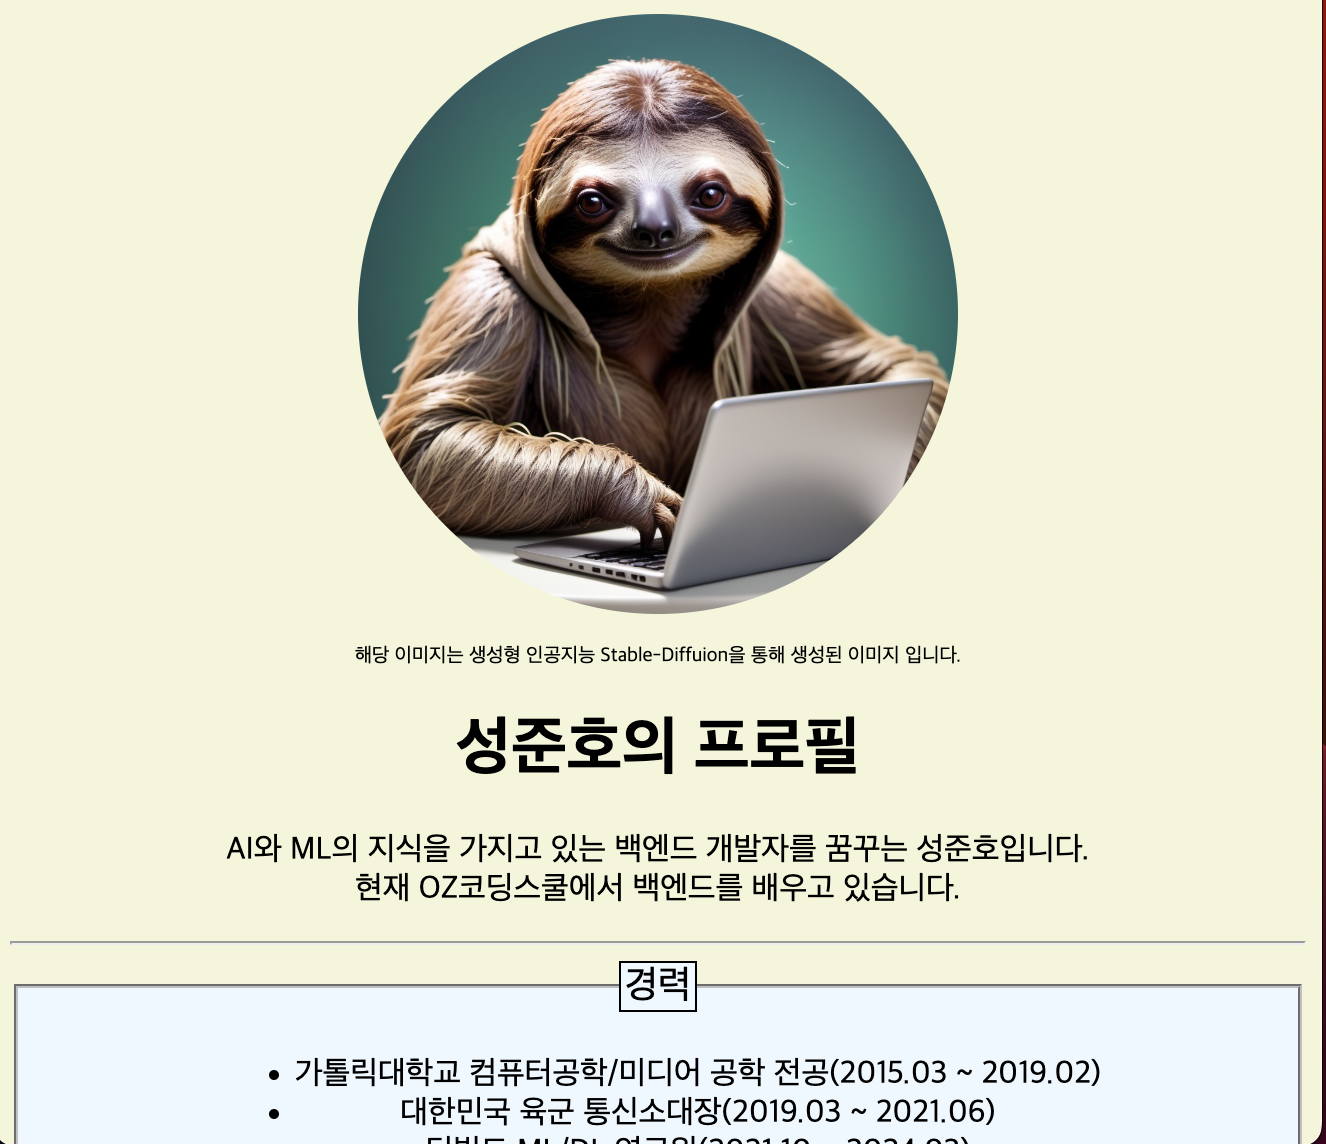
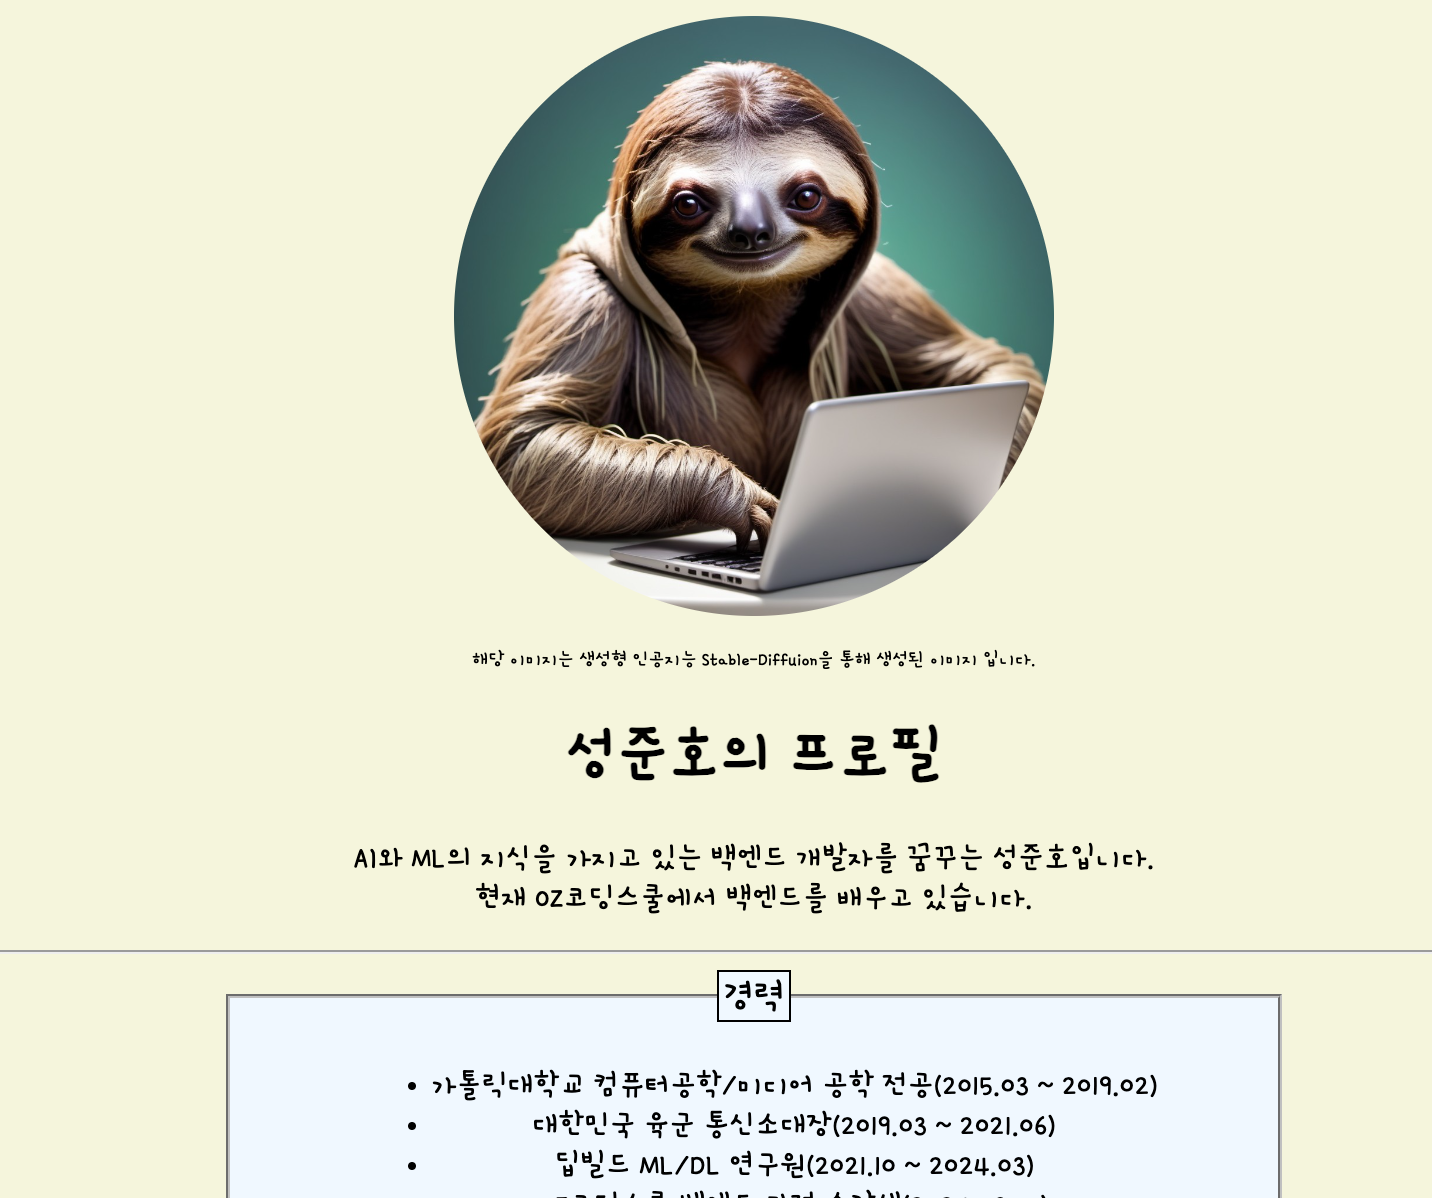
update profile style and readme

Changed region(s): [[0.0, 0.0, 1.0, 1.0]]

diff --git a/HTML+CSS/mini_project/profile_with_style_sheet/profile.html b/HTML+CSS/mini_project/profile_with_style_sheet/profile.html
@@ -4,6 +4,9 @@
     <meta charset="UTF-8">
     <meta name="viewport" content="width=device-width, initial-scale=1.0">
     <link href="src/profile.css" rel="stylesheet">
+    <link rel="preconnect" href="https://fonts.googleapis.com">
+<link rel="preconnect" href="https://fonts.gstatic.com" crossorigin>
+<link href="https://fonts.googleapis.com/css2?family=Black+Han+Sans&family=Gamja+Flower&display=swap" rel="stylesheet">
     <title>성준호의 프로필</title>
     
 </head>

diff --git a/HTML+CSS/mini_project/profile_with_style_sheet/src/profile.css b/HTML+CSS/mini_project/profile_with_style_sheet/src/profile.css
@@ -1,6 +1,9 @@
+
 * {
     text-align: center;
     background-color: beige;
+    font-family: "Gamja Flower", "sans-serif";
+    
 }
 
 li {
@@ -33,7 +36,11 @@ legend{
 }
 
 fieldset{
-background-color: aliceblue;
+    background-color: aliceblue;
+    width: 500px;
+    display: table;
+    margin-left: auto;
+    margin-right: auto;
 }
 
 #profile_detail{
